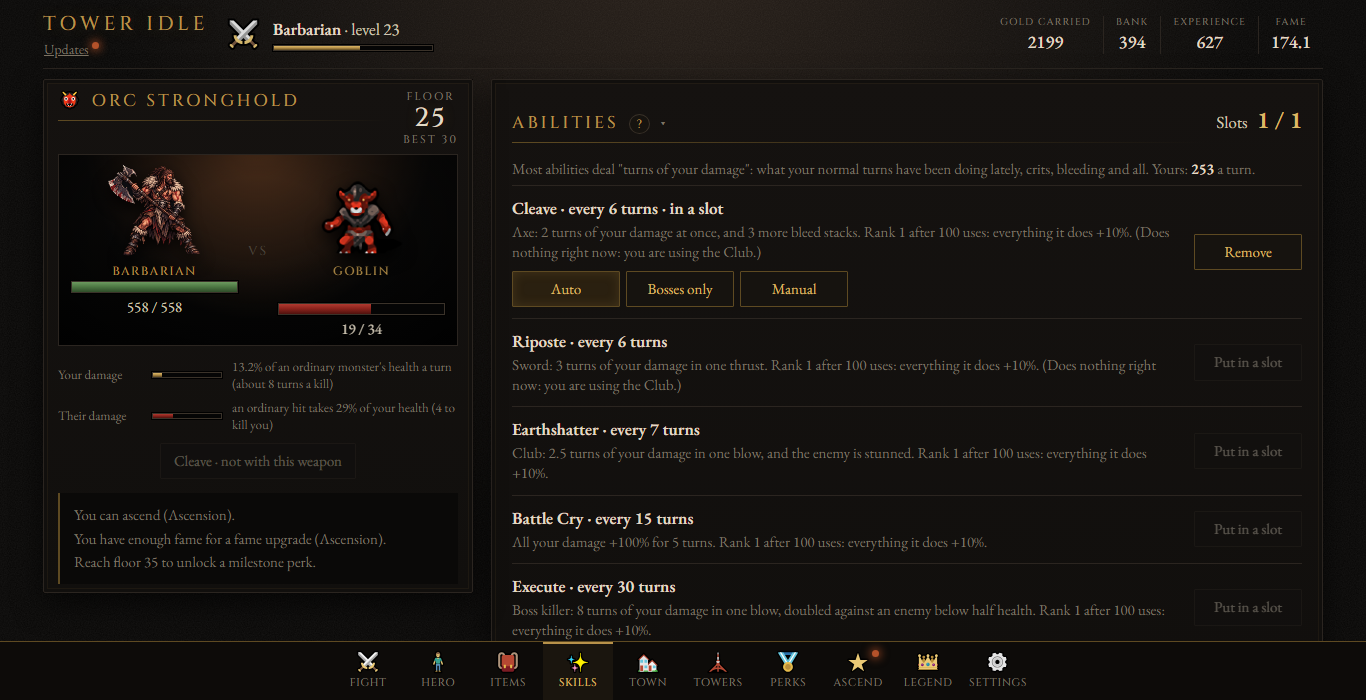
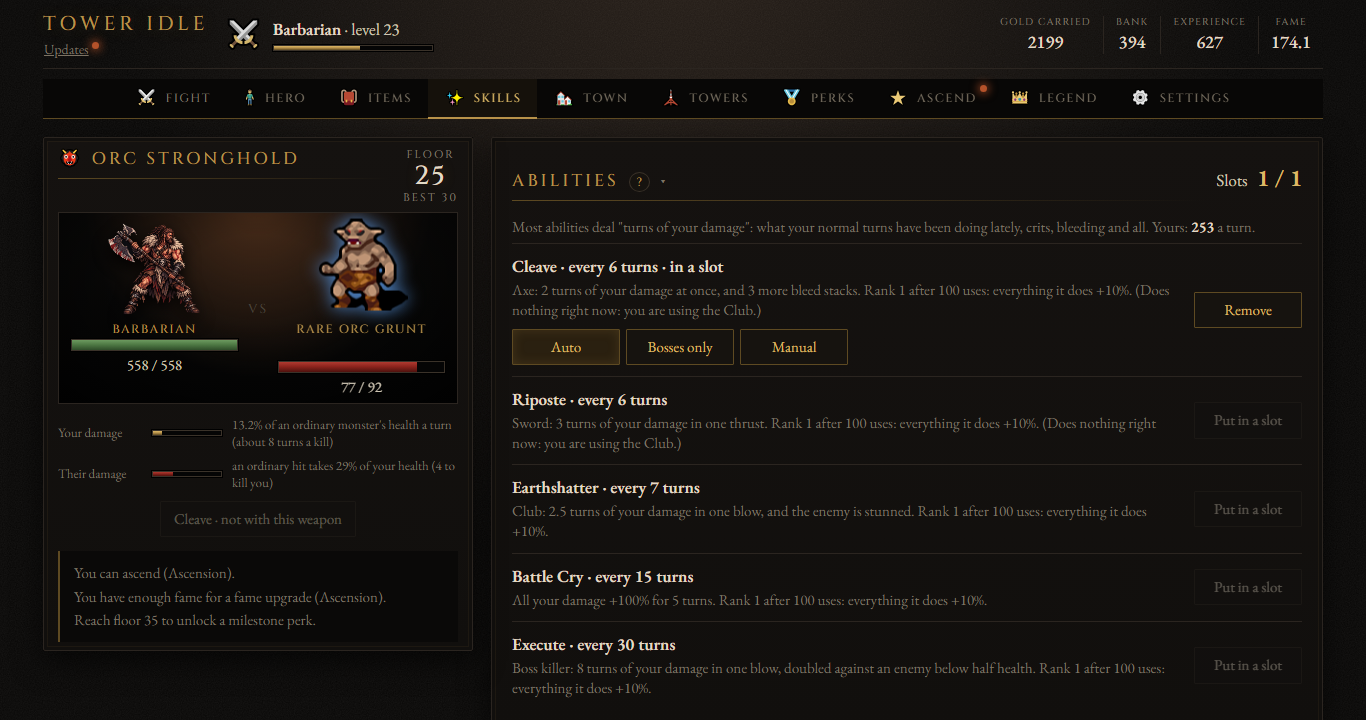
On a wide screen the tabs are a bar across the top; a phone keeps them at the bottom

diff --git a/index.html b/index.html
@@ -11,7 +11,7 @@
   <link rel="preconnect" href="https://fonts.googleapis.com">
   <link rel="preconnect" href="https://fonts.gstatic.com" crossorigin>
   <link href="https://fonts.googleapis.com/css2?family=Cinzel:wght@500;700&family=EB+Garamond:wght@400;500;600&display=swap" rel="stylesheet">
-  <link rel="stylesheet" href="style.css?v=20261011q">
+  <link rel="stylesheet" href="style.css?v=20261011r">
 </head>
 <body data-tab="tower">
 
@@ -659,35 +659,35 @@
          3. the file version.txt
        The ?v= makes browsers fetch the new files instead of old remembered ones, and
        version.txt is how a game left open finds out it is out of date (see game/start.js). -->
-  <script>const gameVersion = "20261011q";</script>
-  <script src="data.js?v=20261011q"></script>
-  <script src="updates.js?v=20261011q"></script>
-  <script src="towers.js?v=20261011q"></script>
-  <script src="classes/barbarian.js?v=20261011q"></script>
-  <script src="classes/warden.js?v=20261011q"></script>
-  <script src="classes/ranger.js?v=20261011q"></script>
-  <script src="classes/assassin.js?v=20261011q"></script>
-  <script src="classes/warlock.js?v=20261011q"></script>
-  <script src="classes/elementalist.js?v=20261011q"></script>
-  <script src="classes/zealot.js?v=20261011q"></script>
-  <script src="classes/beasttamer.js?v=20261011q"></script>
+  <script>const gameVersion = "20261011r";</script>
+  <script src="data.js?v=20261011r"></script>
+  <script src="updates.js?v=20261011r"></script>
+  <script src="towers.js?v=20261011r"></script>
+  <script src="classes/barbarian.js?v=20261011r"></script>
+  <script src="classes/warden.js?v=20261011r"></script>
+  <script src="classes/ranger.js?v=20261011r"></script>
+  <script src="classes/assassin.js?v=20261011r"></script>
+  <script src="classes/warlock.js?v=20261011r"></script>
+  <script src="classes/elementalist.js?v=20261011r"></script>
+  <script src="classes/zealot.js?v=20261011r"></script>
+  <script src="classes/beasttamer.js?v=20261011r"></script>
   <!-- The game's rules, in this order (start.js last) -->
-  <script src="game/state.js?v=20261011q"></script>
-  <script src="game/bonuses.js?v=20261011q"></script>
-  <script src="game/legend.js?v=20261011q"></script>
-  <script src="game/weekly.js?v=20261011q"></script>
-  <script src="game/equipment.js?v=20261011q"></script>
-  <script src="game/abilities.js?v=20261011q"></script>
-  <script src="game/bosses.js?v=20261011q"></script>
-  <script src="game/summary.js?v=20261011q"></script>
-  <script src="game/skills.js?v=20261011q"></script>
-  <script src="game/save.js?v=20261011q"></script>
-  <script src="game/page-build.js?v=20261011q"></script>
-  <script src="game/page-show.js?v=20261011q"></script>
-  <script src="game/fights.js?v=20261011q"></script>
-  <script src="game/tidy.js?v=20261011q"></script>
-  <script src="game/feel.js?v=20261011q"></script>
-  <script src="game/start.js?v=20261011q"></script>
-  <script src="cloud.js?v=20261011q"></script>
+  <script src="game/state.js?v=20261011r"></script>
+  <script src="game/bonuses.js?v=20261011r"></script>
+  <script src="game/legend.js?v=20261011r"></script>
+  <script src="game/weekly.js?v=20261011r"></script>
+  <script src="game/equipment.js?v=20261011r"></script>
+  <script src="game/abilities.js?v=20261011r"></script>
+  <script src="game/bosses.js?v=20261011r"></script>
+  <script src="game/summary.js?v=20261011r"></script>
+  <script src="game/skills.js?v=20261011r"></script>
+  <script src="game/save.js?v=20261011r"></script>
+  <script src="game/page-build.js?v=20261011r"></script>
+  <script src="game/page-show.js?v=20261011r"></script>
+  <script src="game/fights.js?v=20261011r"></script>
+  <script src="game/tidy.js?v=20261011r"></script>
+  <script src="game/feel.js?v=20261011r"></script>
+  <script src="game/start.js?v=20261011r"></script>
+  <script src="cloud.js?v=20261011r"></script>
 </body>
 </html>

diff --git a/style.css b/style.css
@@ -1972,3 +1972,81 @@ body:not([data-tab="tower"]) .fight-card .ghost {
     position: static;
   }
 }
+
+/* ----- A wide screen: the tabs across the top -----
+   Along the bottom suits a phone, which is held at the bottom. On a computer the tabs
+   are looked for at the top (asked for the day after the bottom bar was made). So from
+   1000 pixels wide the same bar sits under the header and stays there as the page
+   scrolls. (".side" is taken out of the grid so that its bar can span both columns.) */
+@media (min-width: 1000px) {
+  body {
+    padding-bottom: 24px;
+  }
+
+  .side {
+    display: contents;
+  }
+
+  .tabs {
+    position: sticky;
+    top: 0;
+    bottom: auto;
+    grid-column: 1 / -1;
+    grid-row: 1;
+    justify-content: center;
+    padding: 0;
+    background: var(--background);
+    border-top: none;
+    border-bottom: 1px solid var(--gold-dark);
+    overflow: visible;
+  }
+
+  .tabs button {
+    flex-direction: row;
+    gap: 8px;
+    min-width: 0;
+    padding: 10px 16px;
+    font-size: 12px;
+    letter-spacing: 1.5px;
+    border-top: none;
+    border-bottom: 2px solid transparent;
+    margin-bottom: -1px;
+  }
+
+  .tabs button::before {
+    font-size: 16px;
+    line-height: 18px;
+  }
+
+  .tabs button:hover {
+    border-bottom: 2px solid var(--gold-dark);
+  }
+
+  .tabs button.open {
+    border-top: none;
+    border-bottom: 2px solid var(--gold);
+  }
+
+  .tabs button.alert::after {
+    top: 6px;
+    right: 6px;
+  }
+
+  .play {
+    grid-column: 1;
+    grid-row: 2;
+  }
+
+  body:not([data-tab="tower"]) .play {
+    top: 56px;
+  }
+
+  body[data-tab="tower"] .play {
+    grid-column: 1 / -1;
+  }
+
+  .page {
+    grid-column: 2;
+    grid-row: 2;
+  }
+}

diff --git a/updates.js b/updates.js
@@ -13,6 +13,13 @@
 
 const gameUpdates = [
   {
+    version: "20261011r",
+    title: "Tabs across the top on a computer",
+    changes: [
+      "On a wide screen the tabs are now a bar across the top, under the header, and stay there as the page scrolls. On a phone they stay along the bottom."
+    ]
+  },
+  {
     version: "20261011q",
     title: "Milestones that are choices",
     changes: [

diff --git a/docs/design/09-ui-ux-and-feel.md b/docs/design/09-ui-ux-and-feel.md
@@ -124,3 +124,7 @@ under it moves.
 Stacked on a computer the fight left the page a strip one row tall (reported the same
 day). From 1000 pixels wide the short fight stands in a left column instead, and the
 page has the whole height.
+
+The bottom bar was wrong for a computer (the owner: tabs belong on the side or the top
+there; the bottom suits a phone because that is where it is held). From 1000 pixels
+wide the same bar is across the top, sticky. Picture: [wide](pictures/layout-wide.png).
